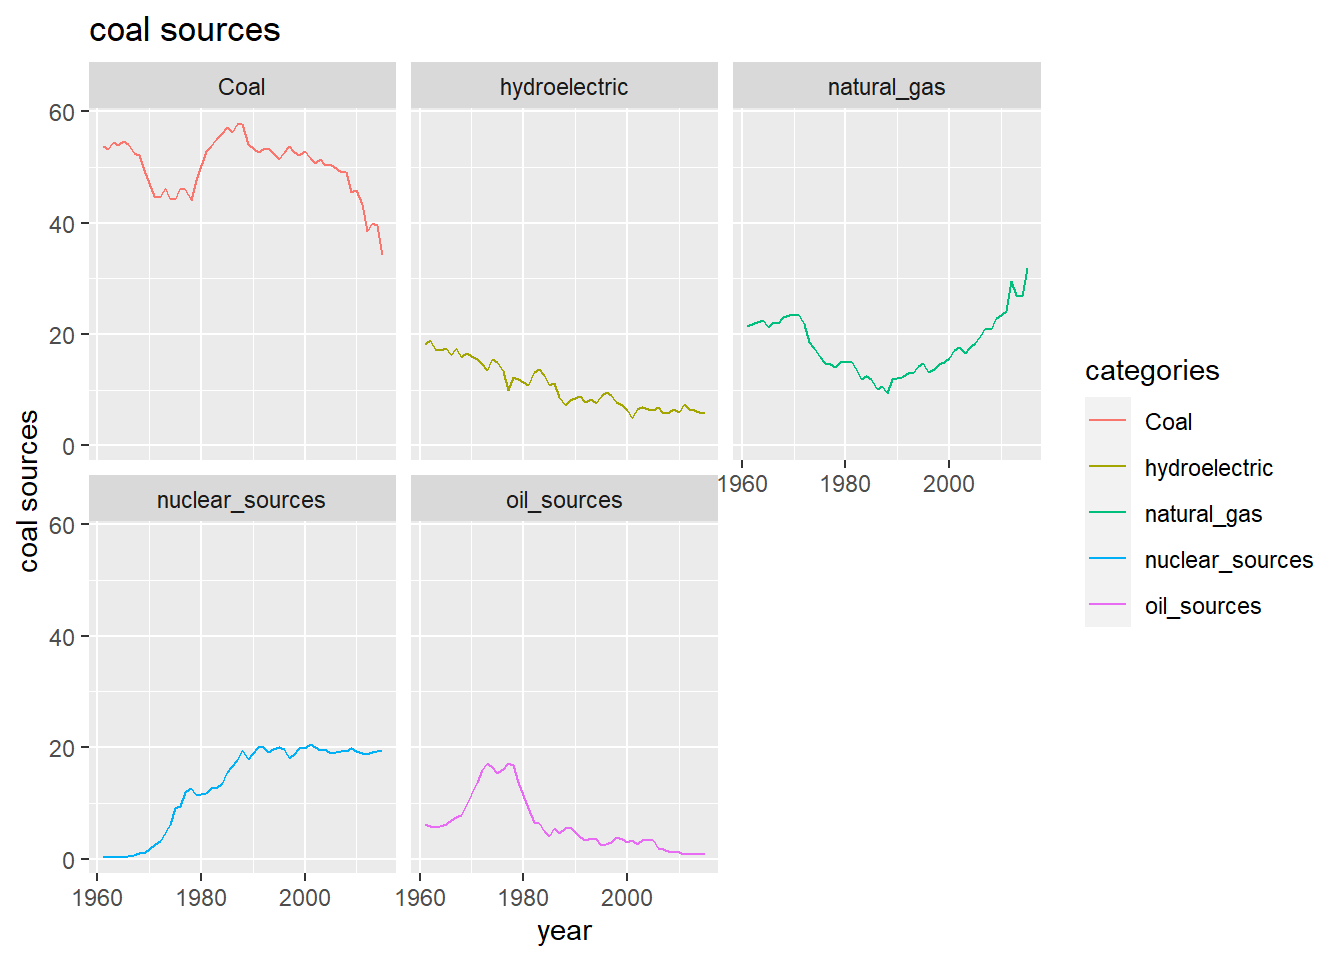
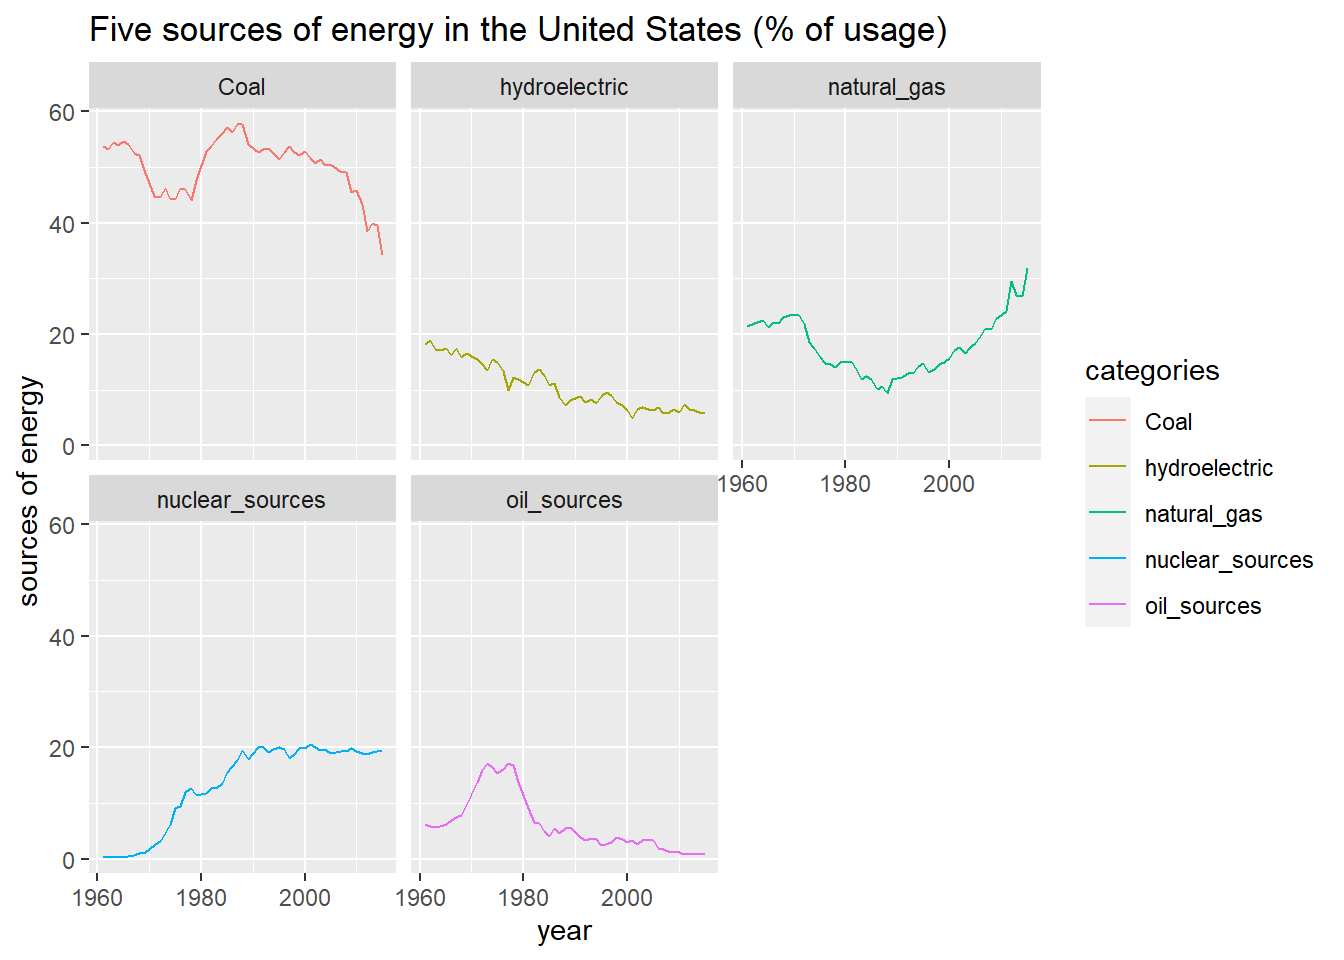
7

Changed region(s): [[0.0625, 0.0, 0.7188, 0.0625], [0.0, 0.4062, 0.0312, 0.625]]

diff --git a/content/post/2021-06-16-assignment-a05-exploratory-data-analysis-2/index.html b/content/post/2021-06-16-assignment-a05-exploratory-data-analysis-2/index.html
@@ -70,7 +70,7 @@ The previous visualization did not show the trend over the years. One method to 
 <div id="percentage-of-using-five-sources-of-energy-in-the-united-states" class="section level2">
 <h2>7. Percentage of using five sources of energy in the United States</h2>
 <p><img src="{{< blogdown/postref >}}index_files/figure-html/unnamed-chunk-8-1.png" width="672" /></p>
-<p>aaaaaaaaaaaaaaaaaa</p>
+<p>Five sources of energy (Coal, hydroelectric, natural gas, nuclear sources, and oil sources) accounts for the majority of production of energy. These plots shows the percentage of usage over the years. It is obvious that coal is the main source despite the decline in the recent years. On the other hand, natural gas shows a rapid increase.</p>
 <hr />
 </div>
 <div id="section" class="section level2">
